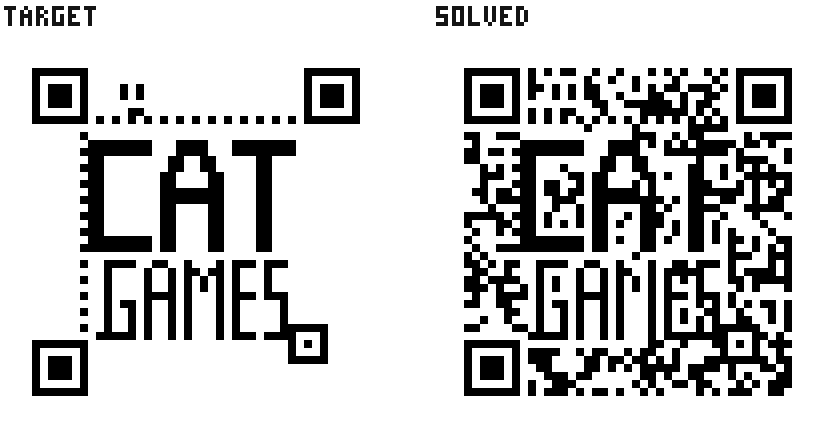
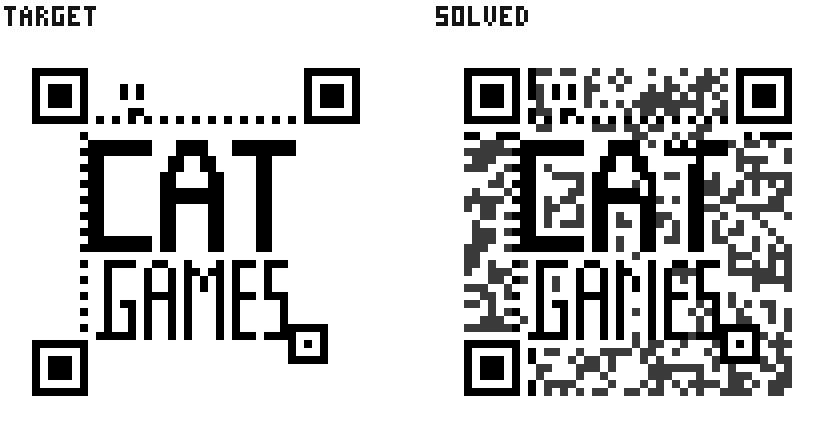
Pieces 4 and 7: pixel-type and the smuggler
Pixel-type: the code spells CAT GAMES in pixel glyphs (97.25% stroke
satisfaction) with a three-tone render — pure black letters on a dark
gray noise ground — verified scannable in the toned form at all gates.

Smuggler: 51 bytes of ASCII hidden in the pad codewords at stream
offset 43; phones decode only the URL, while hidden.mjs (or any raw
bitstream reader) recovers 'PSST. YOU READ THE PADDING. GOOD CAT.
-HEX & GOOMBA'. Paw-print art at 95.5% pins, headroom 3/9.

Claude-Session: https://claude.ai/code/session_0158kcuAWabeTm161BUonDiU

Changed region(s): [[0.5461, 0.1519, 0.9709, 0.9416], [0.8192, 0.6075, 0.8495, 0.6682], [0.7585, 0.4252, 0.7888, 0.4556]]

diff --git a/hex/wild-qr/out/smuggler-report.md b/hex/wild-qr/out/smuggler-report.md
@@ -19,7 +19,7 @@ Block 0's pad is entirely consumed by the message, so it steers only via the
 
 ## Solve
 - urlCase: schemehost; verify with allowSchemeHostCase.
-- Deterministic mask search (noiseSeed=20240720, flipSeed=20240720) → **mask 5**.
+- Deterministic mask search (noiseSeed=20240725, flipSeed=20240720) → **mask 5**.
 - Paw pins satisfied: **191/200 (95.50%)** — 60 dark + 140 halo/light.
 - freeDim (noise variations): 2^240.
 - Single paw only: a second (walking-trail) paw was prototyped but pushed
@@ -59,10 +59,11 @@ RS meter        : blk0: 6/9 used (3 headroom)  |  blk1: 0/9 used (9 headroom)
 URL segment     : https://gITHUb.CoM/minigolf2000/cat-games
 
 pad region      : 93 bytes, sequential data stream offset 43
-pad (ASCII)     : PSST. YOU READ THE PADDING. GOOD CAT. -HEX & GOOMBAP.Q......L.X.|.c.{T..(...a.+-`tIo.V..J.]-U
+pad (ASCII)     : PSST. YOU READ THE PADDING. GOOD CAT. -HEX & GOOMBA..V....:=....j.f.vh&.v...a...(tJ.....N.U-S
+pad (hex head)  : 50 53 53 54 2e 20 59 4f 55 20 52 45 41 44 20 54 ...
 
->>> HIDDEN MESSAGE (93 bytes at stream offset 43):
->>> PSST. YOU READ THE PADDING. GOOD CAT. -HEX & GOOMBAP~QJdI'LyX8|rc*{T(#|au+-`tIoxVahJ1]-U
+padding is NOT the standard 0xEC 0x11 filler — a message is smuggled here.
+>>> smuggled ASCII @ stream offset 43: PSST. YOU READ THE PADDING. GOOD CAT. -HEX & GOOMBA
 ```
 
 ## Outputs
@@ -72,45 +73,45 @@ pad (ASCII)     : PSST. YOU READ THE PADDING. GOOD CAT. -HEX & GOOMBAP.Q......L.
 
 ## ASCII preview
 ```
-██████████████    ████      ██████    ████████    ██    ██████  ██  ██████████████
-██          ██    ██  ██  ██████  ████████████            ████  ██  ██          ██
-██  ██████  ██    ██    ██████████  ██  ██  ██  ████        ██  ██  ██  ██████  ██
-██  ██████  ██  ████  ████  ██    ████  ██      ██          ██████  ██  ██████  ██
-██  ██████  ██  ██    ██        ██    ██        ██    ██  ████████  ██  ██████  ██
-██          ██      ██  ██  ████        ██  ████        ████        ██          ██
+██████████████      ██      ████████  ████████          ██████  ██  ██████████████
+██          ██    ██  ██  ██████    ██████████            ████  ██  ██          ██
+██  ██████  ██    ████  ██    ████      ██      ████        ██  ██  ██  ██████  ██
+██  ██████  ██  ████████    ██            ████  ████    ██  ██████  ██  ██████  ██
+██  ██████  ██  ██      ██  ██  ██  ██        ████      ██████████  ██  ██████  ██
+██          ██      ██      ██████      ██  ██  ██      ████        ██          ██
 ██████████████  ██  ██  ██  ██  ██  ██  ██  ██  ██  ██  ██  ██  ██  ██████████████
-                    ██        ████████      ██████      ██    ██                  
+                    ██            ██████    ██          ██    ██                  
 ████      ██████    ██      ████  ██  ██    ████████  ██████            ████      
-██  ██    ██  ██  ██              ██    ████████      ████  ██    ██████████████  
-████    ██  ████            ████████        ██        ██        ████  ████        
-████          ████████  ██  ██  ████  ██    ████    ██████  ██████  ██    ██      
-  ██████    ██████  ██        ██  ██  ████  ██████    ████      ██    ████      ██
-████    ████  ████  ██              ██          ██  ████████        ████████  ████
-████    ████████                      ██  ██████        ██            ████        
-██  ██  ████      ██                  ████          ████      ████  ████████    ██
-          ████          ████  ████          ██  ████      ██            ██████    
-████    ████            ████  ████          ████  ████████  ██████    ████        
-  ████████  ██                                ██  ██  ██████  ██  ████    ████████
-    ██    ██      ████              ████          ██    ████████    ████████    ██
-████        ██    ████              ████      ██  ██      ██      ██  ██████████  
-██      ██                                      ██  ██  ████    ██  ██  ████████  
-  ██████    ██      ██████  ██████████        ██      ████  ██████████  ██        
-██  ████  ██      ████████  ██████  ██      ████        ██      ██    ████████    
-████  ██  ██████    ████  ████████████    ████  ██  ██████    ████  ████      ██  
-  ██  ████    ██    ██  ████  ████████    ██  ██████  ████  ██  ████  ████      ██
-██  ████  ████        ██████████████            ██████████        ██  ██  ████  ██
-    ██    ██              ██████          ████      ████  ██████      ██    ██    
-████  ██  ████████                      ██      ██  ██  ████  ████  ████  ██████  
-████████  ██  ██    ██                  ██        ██      ██    ████    ████    ██
-████████    ████  ████    ██  ██████      ██    ██    ████    ████  ██████████  ██
-██  ████          ██          ████          ██      ██  ██  ██  ████  ██████  ██  
-██  ████    ██████      ██    ██████████████      ██████  ██    ██████████    ████
-                ████            ██  ██████  ████  ██████    ██  ██      ██    ██  
-██████████████  ██████  ██  ████  ████  ██  ██      ██████    ████  ██  ██  ██    
-██          ██  ██  ██    ██    ██████  ██████  ████  ████████  ██      ██        
-██  ██████  ██    ██████    ████    ██████  ████  ██████████  ██████████████    ██
-██  ██████  ██    ██    ██      ██      ██  ████    ████  ██    ████            ██
-██  ██████  ██              ██          ██████  ████  ██    ██    ████  ██  ████  
-██          ██  ████  ████  ██████  ██        ████              ████████    ██  ██
-██████████████  ██  ██████  ██████      ██    ██████████  ██    ████  ██          
+    ██    ██  ██          ██            ████████      ████  ██    ██████████████  
+        ████████    ██    ████████  ██    ██          ██        ████  ████        
+██        ██  ████████  ██      ████████    ████    ██████  ██████  ██    ██      
+    ██████████████  ██      ██████  ██████    ██  ██████        ██    ████      ██
+██      ██          ██████    ██      ████  ██      ████  ██        ████████  ████
+████  ████████  ██                      ██████        ████            ████        
+██      ████      ██                  ██        ██  ██████    ████  ████████    ██
+          ██████        ████  ████          ██  ████      ██            ██████    
+  ██      ██            ████  ████          ████  ████████  ██████    ████        
+██  ██████  ██                                ██  ██  ██████  ██  ████    ████████
+██████  ██        ████              ████          ████  ████████    ████████    ██
+  ██    ██████    ████              ████    ████        ████      ██  ██████████  
+██    ██████                                ████      ██  ██    ██  ██  ████████  
+  ██████    ██      ██████  ██████████        ██        ██  ██████████  ██        
+██  ██    ██      ████████  ██████  ██      ██  ██    ██        ██    ████████    
+████  ██  ████      ████  ████████████    ████  ██  ██  ██    ████  ████      ██  
+████  ████    ██    ██  ████  ████████    ██  ██████  ████  ██  ████  ████      ██
+██████████  ██        ██████████████        ██  ██    ████        ██  ██  ████  ██
+██████  ████              ██████            ██    ██████  ██████      ██    ██    
+  ██        ██████                              ██  ██  ████  ████  ████  ██████  
+██████    ██  ████                  ██████  ██    ██      ██    ████    ████    ██
+████████    ████████████  ██    ████  ██████          ████    ████  ██████████  ██
+██  ██          ████          ██      ██    ██  ██  ██  ██  ██  ████  ██████  ██  
+██  ████    ██████      ██    ████████  ████  ██  ██████  ██    ██████████    ████
+                ████            ██████████  ████    ████    ██  ██      ██    ██  
+██████████████  ██      ██  ████        ██  ██    ██  ████    ████  ██  ██  ██    
+██          ██  ██████    ██    ██  ██  ██  ██  ██████████████  ██      ██        
+██  ██████  ██    ████████    ██      ████    ██    ████████  ██████████████    ██
+██  ██████  ██    ██    ██    ████                    ██  ██    ████            ██
+██  ██████  ██        ████  ██  ██    ██  ██████  ██  ██    ██    ████  ██  ████  
+██          ██  ████    ██  ████    ████      ████              ████████    ██  ██
+██████████████  ██  ██  ██  ██  ██      ██      ████████  ██    ████  ██          
 ```

diff --git a/hex/wild-qr/out/pixel-type-report.md b/hex/wild-qr/out/pixel-type-report.md
@@ -8,10 +8,18 @@ The artwork *is* the code's name: two lines of pixel type — **CAT** (large,
 with a 1-module white halo, everything else surrendered to noise. Scanning opens
 `https://github.com/minigolf2000/cat-games`.
 
+## Three-tone render (Disney-poster trick, zero solver cost)
+The hero renders letter strokes + function patterns in **pure black** and the
+surrendered noise ground in **dark gray `#3a3a3a`** — so the type lifts off the
+noise. This is a render-time recolour only; the matrix (and thus the scan) is
+unchanged.
+- Gray relative luminance: **0.0423** (gate < 0.2 ✓).
+- The jsQR scan gate is enforced on the **toned** artifact (not just BW) at scale 8, scale 3, and half-res — all must pass.
+
 ## Symbol
 - Version 6, level L (41x41), mask 4 (chosen by stroke-pins, then halo-pins, then headroom).
 - urlCase: **schemehost** (scheme+host case bits are the only steerable bits in the frozen URL region); verified with `allowSchemeHostCase`.
-- Decoded (case-remixed, RFC-3986 equivalent): `httPS://gITHUb.cOM/minigolf2000/cat-games`
+- Decoded (case-remixed, RFC-3986 equivalent): `HTtpS://GiThuB.cOM/minigolf2000/cat-games`
 - freeDim 290, deliberate flips 32.
 
 ## Legibility gate (the piece)
@@ -29,6 +37,13 @@ with a 1-module white halo, everything else surrendered to noise. Scanning opens
 - GAMES `E`: 15/16 strokes (**1 missed**)
 - GAMES `S`: 16/16 strokes
 
+### GAMES halo (art-notes experiment)
+Tried a 2-module halo band around the GAMES line (higher priority than the CAT
+halo). It **cost 2 stroke pins** — 248→246 (97.25%→96.47%, below the 97% gate:
+M and S each lost a stroke to the extra light-pin competition), so it was
+**reverted to a 1-module halo**. The three-tone separation carries GAMES
+instead. (Currently GAMES_HALO_R=1; set env `GHALO=2` to reproduce the rejected variant.)
+
 ## Per-block meter (honest validate() decode)
 - blk0: 7/9 codewords used — 2 headroom
 - blk1: 0/9 codewords used — 9 headroom
@@ -38,9 +53,12 @@ Worst-block headroom: 2 codewords (gate: ≥2). Bare-symbol verifyMatrix passed 
 ## Scan matrix (jsQR)
 | render | result | decoded (scheme+host case-normalised) |
 | --- | --- | --- |
-| scale 8 | PASS | = URL |
-| scale 3 | PASS | = URL |
-| scale 8 half-res | PASS | = URL |
+| toned scale 8 | PASS | = URL |
+| toned scale 3 | PASS | = URL |
+| toned scale 8 half-res | PASS | = URL |
+| bw scale 8 | PASS | = URL |
+| bw scale 3 | PASS | = URL |
+| bw scale 8 half-res | PASS | = URL |
 
 ## Placement
 - CAT: rows 9..22, cols 7..32 (C 7..14, A 16..23, T 25..32). Right of the col-6 timing strip; slight left bias pulls the frozen-side T off the extreme right edge.
@@ -49,7 +67,9 @@ Worst-block headroom: 2 codewords (gate: ≥2). Bare-symbol verifyMatrix passed 
 - Priority order: frozen-side letter strokes first (rightmost right-edge column first), then all strokes, then halos, then paw.
 
 ## Deliverables
-- out/pixel-type.png — solved symbol, scale 8
-- out/pixel-type.svg — vector symbol (quiet zone 4)
-- out/pixel-type-target-vs-solved.png — pre-solve ideal vs solved, side by side
+- out/pixel-type.png — **hero, three-tone** (black type on gray noise), scale 8
+- out/pixel-type-bw.png — pure black/white print fallback, scale 8
+- out/pixel-type.svg — vector, three-tone (quiet zone 4)
+- out/pixel-type-bw.svg — vector, black/white fallback
+- out/pixel-type-target-vs-solved.png — pre-solve ideal vs toned-solved, side by side
 - out/pixel-type-report.md — this file
